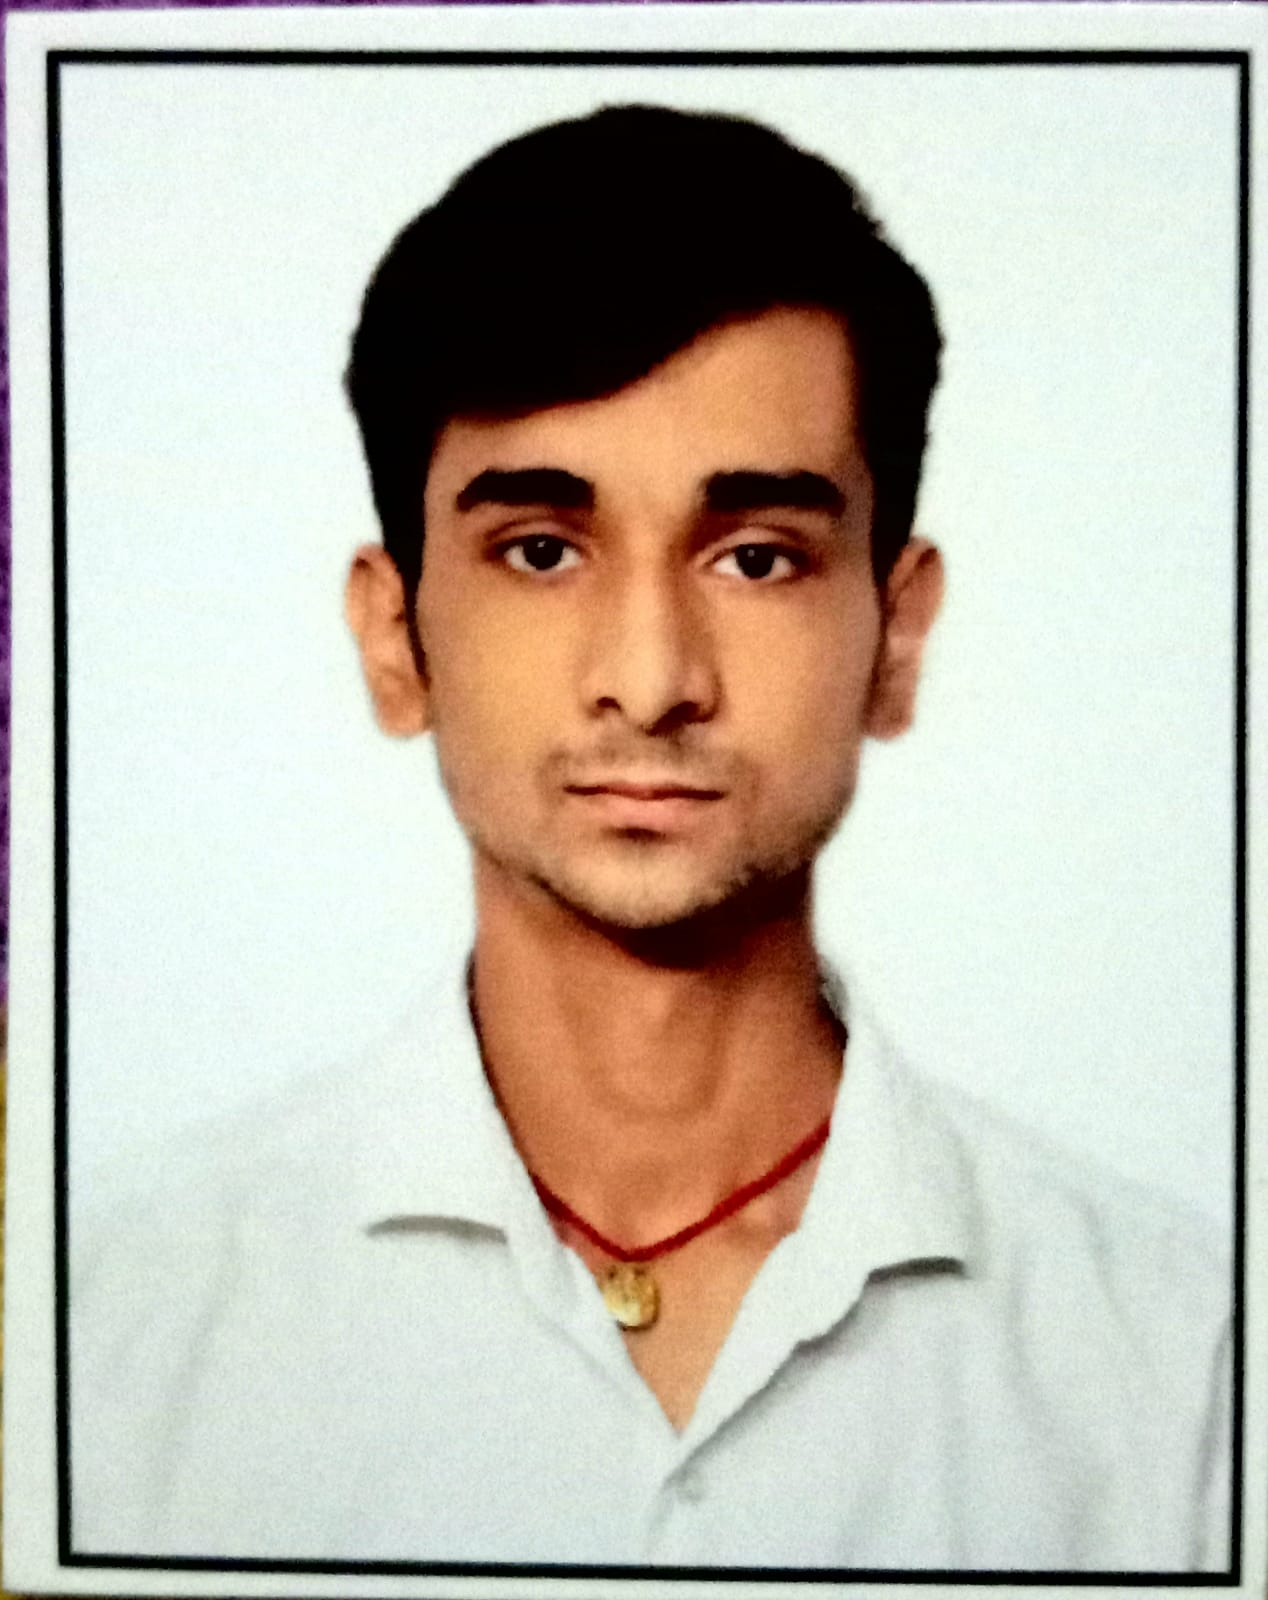
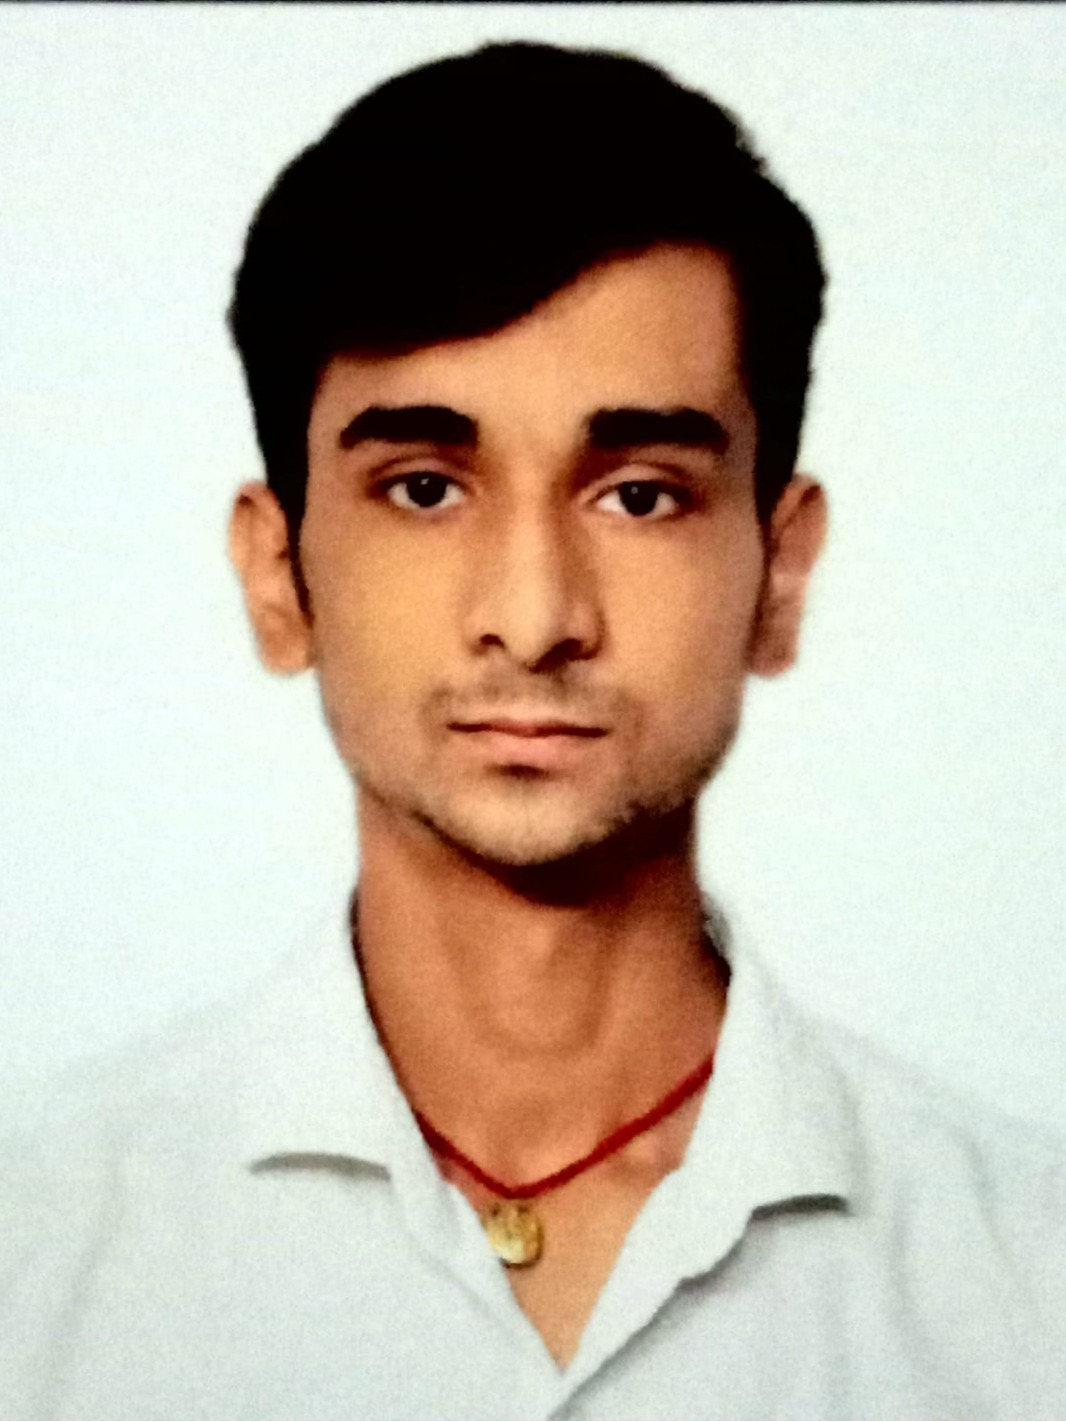
Portfolio is updated and deployed

diff --git a/app/home/page.tsx b/app/home/page.tsx
@@ -121,7 +121,7 @@ export default function Home() {
 
                                     <div className='w-fit flex justify-center items-center max-xl:w-fit'>
                                         <div className='w-96 h-96 rounded-full border-4 border-emerald-400 flex justify-center items-center overflow-hidden max-md:w-48 max-md:h-48 max-xl:w-72 max-xl:h-72'>
-                                            <Image src="/MyImage4.jpg" alt="myImage" width={1000} height={1000} className='w-full h-full z-40' />
+                                            <Image src={"/myImage.jpg"} alt="myImage" width={1000} height={1000} className='w-full h-full z-40' />
                                         </div>
                                     </div>
                                 </div>
